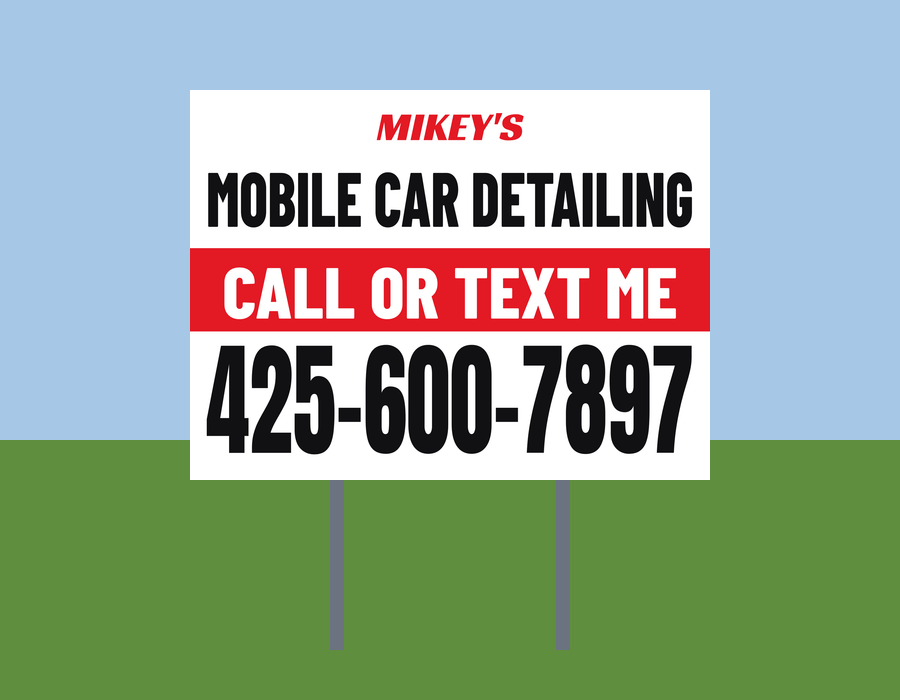
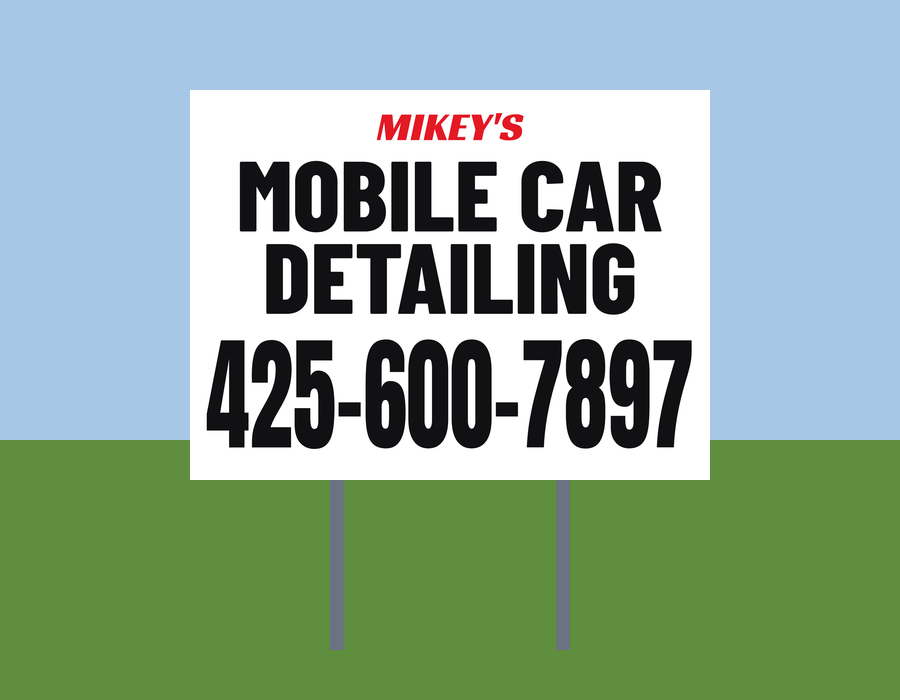
Yard sign: no band, just MOBILE CAR DETAILING and the number
Mikey's call (2026-10-02): drop the red band and the call line. With
the room back, MOBILE CAR / DETAILING stacks on two lines at 3.2 in
(was 2.5 in on one stretched line). The generator gains grouped
line sizing so stacked lines match.

Claude-Session: https://claude.ai/code/session_01UPHToftEyWzvx3bWRMDMZX

Changed region(s): [[0.1867, 0.21, 0.8089, 0.66]]

diff --git a/print/yard-signs/README.md b/print/yard-signs/README.md
@@ -102,13 +102,13 @@ so a phone number you want read from 100 feet needs 3 to 4 inch characters.
   it prices at a printer's 2-colour rate. High contrast is what matters; never
   mid-tones or photos.
 
-**Copy (7 words, the small name and a number)**, picked by Mikey on
+**Copy (3 words, the small name and a number)**, picked by Mikey on
 2026-10-01, wording changed on 2026-10-02:
 
 ```
             MIKEY'S               (red, Racing Sans One, the logo's face: 1.2 in letters)
-     MOBILE CAR DETAILING         (black, Barlow Condensed stretched 1.3x tall: 2.5 in letters)
-        CALL OR TEXT ME           (white on a full-width red band: 2.3 in letters)
+          MOBILE CAR              (black, Barlow Condensed, two lines at one size: 3.2 in letters)
+           DETAILING
           425-600-7897            (black, Anton stretched tall: 5 in digits)
 ```
 
@@ -117,32 +117,32 @@ Why it's laid out that way:
 - **What it is, big.** The first version only said "detailing" inside the logo,
   in letters under an inch tall, so a driver read "Mikey's... I come to
   you... number" and had to guess. "Mobile car detailing" is now the
-  second-biggest line, stretched tall because three words across 22.5 in would
-  otherwise be 1.9 in.
+  second-biggest thing, stacked on two lines because three words across
+  22.5 in would only be 1.9 in.
 - **The number is the biggest thing**, and the only thing a driver can act on.
   A tall, narrow number font (an idea taken off the printer's first proof)
   and dropping the brackets took the digits from 2.6 in to 5 in.
 - **The name sits back.** MIKEY'S stays brand red but small (1.2 in), so the
-  eye goes what, the ask, number before it gets to the name (Mikey, 2026-10-01). It's there for the people who pass it every day and later
+  eye goes to what it is and the number before the name (Mikey, 2026-10-01). It's there for the people who pass it every day and later
   search the name, not for the first glance.
 - **No QR and no website.** Drivers don't scan, and the strip they took up was
   most of the number's lost height. Sign leads get logged by asking (section 6).
-- **One line that asks for the call.** "CALL OR TEXT ME" on the red band
-  replaced "I COME TO YOU" (Mikey, 2026-10-02): "mobile" already says he comes
-  to you, and the band is the most-seen spot on the sign, so it asks. It keeps
-  "me" for first person and "text" because texting is how the business runs.
-  Try another wording with `CTA="..." npm run sign`; the 7-word check counts
-  the band line and the "what" line (the small name doesn't count).
+- **No red band and no slogan line** (Mikey, 2026-10-02). "I COME TO YOU" and
+  then "CALL OR TEXT ME" were tried on a red band and dropped: "mobile" says he
+  comes to you, and a phone number already asks to be called. Taking the band
+  out let "mobile car detailing" go from 2.5 in to 3.2 in. The only red left is
+  the name.
 
 **The print file is ready:** `print-files/18x24/sign.pdf` (one page, 18 x 24 in
 plus 0.125 in bleed, fonts embedded; order it "same design both sides").
 `preview.png` and `mockup.png` are for looking at. Rebuild with `npm run sign`
 in `print/tools`: the generator fails if the phone number drops under 2.3 in or
-"mobile car detailing" under 2 in, if the name grows as big as the band line, if the big copy passes 7 words, if a price, an
-offer, "we", an em dash or an unserved town gets in, or if any ink other than
-the red band reaches the 0.75 in margin.
+"mobile car detailing" under 2 in, if the name grows past half the size of
+"mobile car detailing", if the big copy passes 7 words, if a price, an offer,
+"we", an em dash or an unserved town gets in, or if any ink reaches the 0.75 in
+margin.
 
-- First person, per the voice rules: "call or text **me**", never "us".
+- First person, per the voice rules: if a line ever comes back, it's "me", never "us".
 - **No price and no offer on the sign.** Prices change and 1,000 printed
   signs can't. The Rain-Ready offer ends Dec 31, 2026 and stays on the hangers
   and postcards only (CLAUDE.md, "Offers and countdowns").

diff --git a/CLAUDE.md b/CLAUDE.md
@@ -303,12 +303,12 @@ honest cost math, where signs go, the crew link, pay, and lead tracking.
   `/api/crew/*` and `/api/signs` in `src/index.js`). Helpers join from a link
   Mikey makes in Insights → Yard signs.
 - **A sign is one more copy of the facts table:** the phone number, first
-  person ("call or text me"). No prices and no offer on a sign: 1,000 printed signs
+  person if any line ever speaks. No prices and no offer on a sign: 1,000 printed signs
   can't follow a price change, and the Rain-Ready offer stays on the hangers and
   postcards.
 - **The roadside sign has no QR and no website** (Mikey picked the design on
-  2026-10-01, wording 2026-10-02: MIKEY'S small in red / MOBILE CAR DETAILING /
-  CALL OR TEXT ME on the red band / 425-600-7897, two inks).
+  2026-10-01, wording 2026-10-02: MIKEY'S small in red / MOBILE CAR /
+  DETAILING / 425-600-7897, two inks, no red band and no slogan line).
   The room went to a 5 in phone number. If a QR ever goes on a sign, it is
   `https://mikeysdetailing.com/?utm_source=yardsign#booking`; the dashboard tags
   a quote or booking from that visit **sign** and credits it. Don't change the

diff --git a/print/ORDERING.md b/print/ORDERING.md
@@ -127,7 +127,7 @@ the winner and its menu path into this section so reorders skip the search.
 
 **Before paying:** "same design both sides" (or "double sided, same artwork")
 is selected, stakes are in the cart, the quantity is right, and the proof
-shows MIKEY'S / MOBILE CAR DETAILING / CALL OR TEXT ME / 425-600-7897 with the number
+shows MIKEY'S / MOBILE CAR / DETAILING / 425-600-7897 (no red band) with the number
 nowhere near the edge. The sign has no QR on purpose.
 
 ## Business cards (die-cut truck shape)
